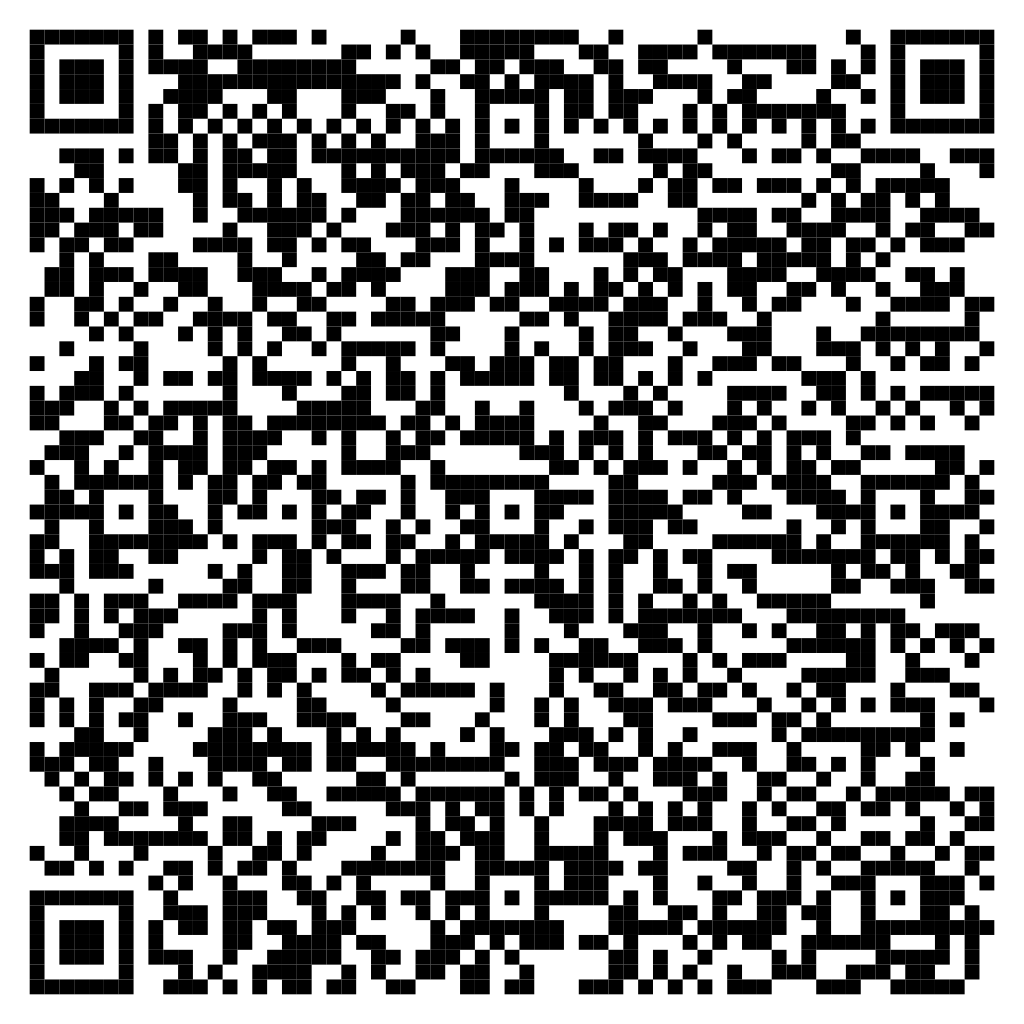
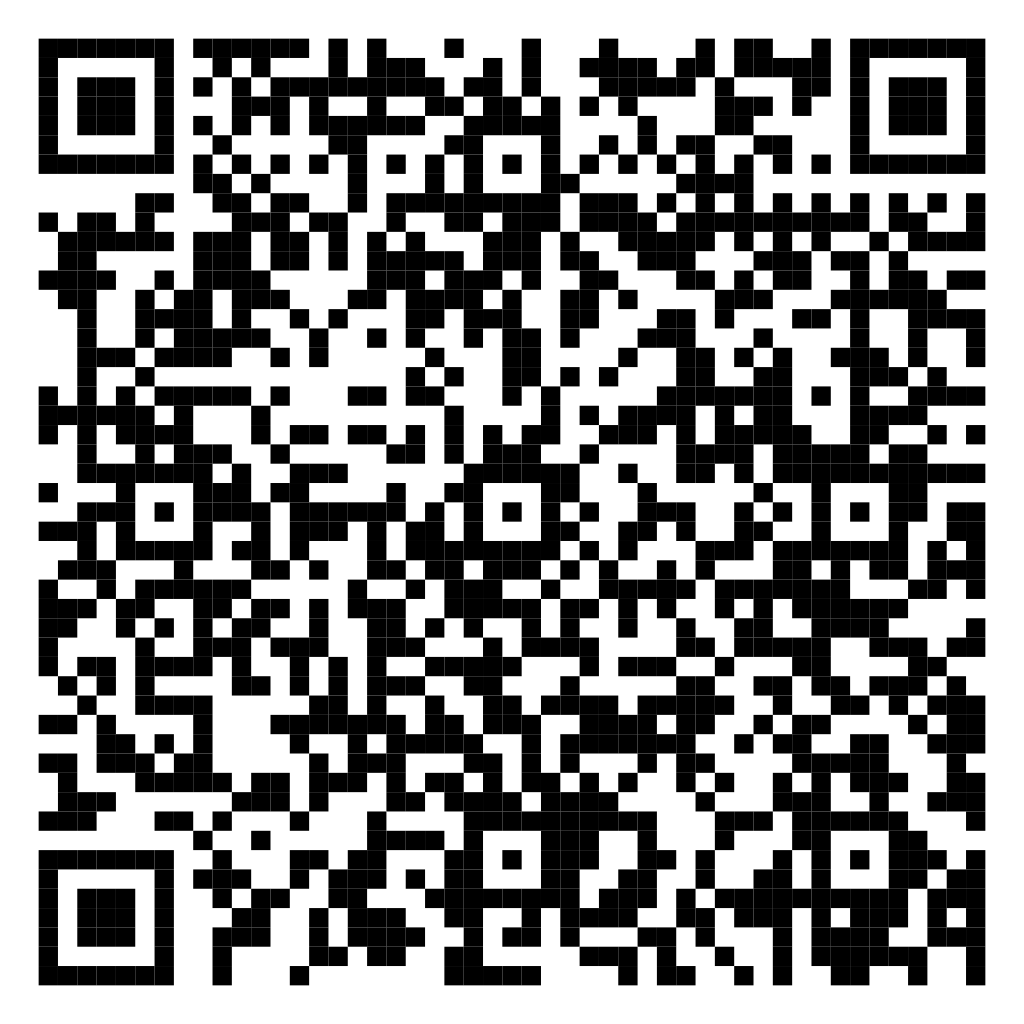
chore: Update samples to use new API

diff --git a/samples/ConsoleApp/Program.cs b/samples/ConsoleApp/Program.cs
@@ -4,7 +4,7 @@ using SkiaSharp.QrCode.Image;
 
 Console.OutputEncoding = System.Text.Encoding.UTF8;
 
-var content = "https://github.com/guitarrapc/SkiaSharp.QrCode/releases/tag/0.10.0?a=5119e6a88a83ae5db1469b66692890775c90b479&b=5119e6a88a83ae5db1469b66692890775c90b479";
+var content = "https://github.com/guitarrapc/SkiaSharp.QrCode/blob/main/README.md";
 var outputDir = "bin/output";
 var iconPath = "samples/test.png";
 var iconInstaPath = "samples/insta.png";
@@ -155,12 +155,7 @@ Console.WriteLine("""
     var path = Path.Combine(outputDir, "pattern7_builder_icon.png");
 
     using var logo = SKBitmap.Decode(File.ReadAllBytes(iconPath));
-    var icon = new IconData
-    {
-        Icon = logo,
-        IconSizePercent = 15,
-        IconBorderWidth = 10,
-    };
+    var icon = IconData.FromImage(logo, 15, 18);
 
     var qrBuilder = new QRCodeImageBuilder(content)
         .WithSize(800, 800)
@@ -185,11 +180,16 @@ Console.WriteLine("""
     var path = Path.Combine(outputDir, "pattern8_builder_full.png");
 
     using var logo = SKBitmap.Decode(File.ReadAllBytes(iconPath));
+    using var font = new SKFont
+    {
+        Size = 18,
+        Typeface = SKTypeface.FromFamilyName("sans-serif", SKFontStyle.Bold)
+    };
     var icon = new IconData
     {
-        Icon = logo,
-        IconSizePercent = 12,
-        IconBorderWidth = 8,
+        Icon = new ImageTextIconShape(logo, "FooBar", SKColors.Black, font, horizontalAlign: SKTextAlign.Center, verticalAlign: TextVerticalAlignment.Bottom, textPadding: 2),
+        IconSizePercent = 13,
+        IconBorderWidth = 18,
     };
 
     var gradient = new GradientOptions(
@@ -205,6 +205,7 @@ Console.WriteLine("""
         .WithColors(backgroundColor: SKColors.White, clearColor: SKColors.Transparent)
         .WithModuleShape(RoundedRectangleModuleShape.Default, sizePercent: 0.92f)
         .WithGradient(gradient)
+        .WithFinderPatternShape(RoundedRectangleFinderPatternShape.Default)
         .WithIcon(icon);
 
     using var stream = File.OpenWrite(path);
@@ -233,7 +234,7 @@ Console.WriteLine("""
 
     // Render with custom options
     using var logo = SKBitmap.Decode(File.ReadAllBytes(iconPath));
-    var icon = new IconData { Icon = logo, IconSizePercent = 10, IconBorderWidth = 5 };
+    var icon = IconData.FromImage(logo, iconBorderWidth: 9);
     var gradient = new GradientOptions([SKColors.DarkViolet, SKColors.DeepPink], GradientDirection.TopLeftToBottomRight);
 
     QRCodeRenderer.Render(
@@ -396,20 +397,13 @@ Console.WriteLine("""
     // Load Instagram logo (if you have one)
     // For this example, we'll use the test icon
     using var logo = SKBitmap.Decode(File.ReadAllBytes(iconInstaPath));
-    var icon = new IconData
-    {
-        Icon = logo,
-        IconSizePercent = 14,
-        IconBorderWidth = 5,
-    };
+    var icon = IconData.FromImage(logo, 14, 9);
 
     var qrBuilder = new QRCodeImageBuilder(content)
         .WithSize(1024, 1024)
         .WithErrorCorrection(ECCLevel.H)
         .WithQuietZone(4)
-        .WithColors(
-            backgroundColor: SKColors.White,
-            clearColor: SKColors.White)
+        .WithColors(backgroundColor: SKColors.White, clearColor: SKColors.White)
         .WithModuleShape(CircleModuleShape.Default, sizePercent: 0.95f)
         .WithFinderPatternShape(RoundedRectangleCircleFinderPatternShape.Default)
         .WithGradient(instagramGradient)
@@ -491,12 +485,7 @@ Console.WriteLine("""
 
         // Render QR code
         using var logo = SKBitmap.Decode(File.ReadAllBytes(iconInstaPath));
-        var icon = new IconData
-        {
-            Icon = logo,
-            IconSizePercent = 15,
-            IconBorderWidth = 4,
-        };
+        var icon = IconData.FromImage(logo, 15, 9);
 
         var qrRect = SKRect.Create(sidePadding, topPadding, qrSize, qrSize);
         QRCodeRenderer.Render(
